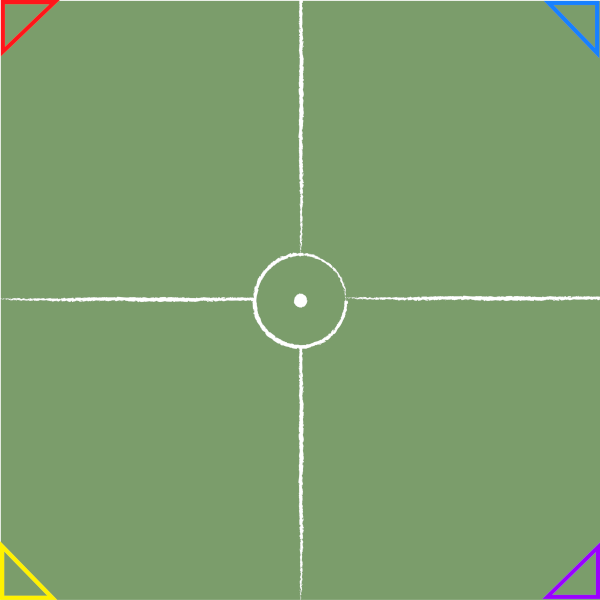
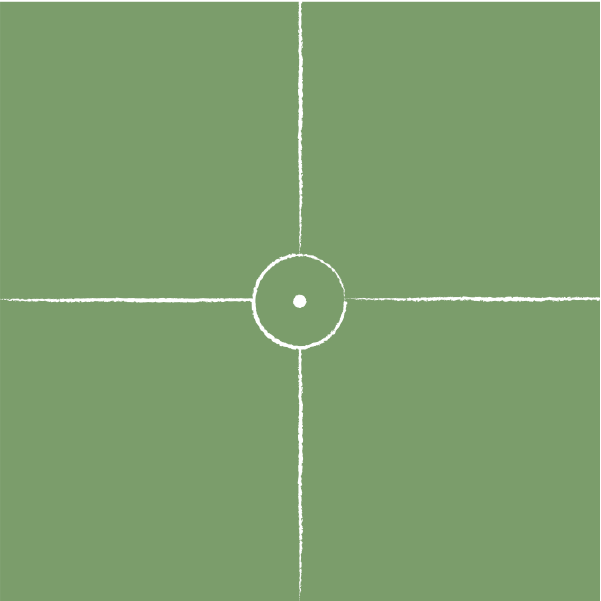
assets-map

diff --git a/public/assets/js/client.js b/public/assets/js/client.js
@@ -29,6 +29,10 @@ const gameScene = () => {
 
   function preload() {
     this.load.image('fond', 'assets/image/FootNite-proto600x600.png');
+    this.load.image('goalred', 'assets/image/testgoal.png');
+    this.load.image('goalblue', 'assets/image/bluegoal.png');
+    this.load.image('goalpurple', 'assets/image/purplegoal.png');
+    this.load.image('goalyellow', 'assets/image/yellowgoal.png');
     this.load.image('ballon', 'assets/image/ballon45x45.png');
     this.load.image('blue', 'assets/image/playerBlue38x38.png');
     this.load.image('purple', 'assets/image/playerPurple38x38.png');
@@ -38,6 +42,10 @@ const gameScene = () => {
 
   function create() {
     this.add.image(300, 300, 'fond');
+    this.add.image(50, 50, 'goalred');
+    this.add.image(550, 50, 'goalblue');
+    this.add.image(550, 550, 'goalpurple');
+    this.add.image(50, 550, 'goalyellow');
     this.matter.world.setBounds(0, 0, 600, 600, 32, true, true, true, true);
     ball = this.matter.add.image(300, 300, 'ballon');
     player = this.matter.add.image(100, 100, 'blue');
